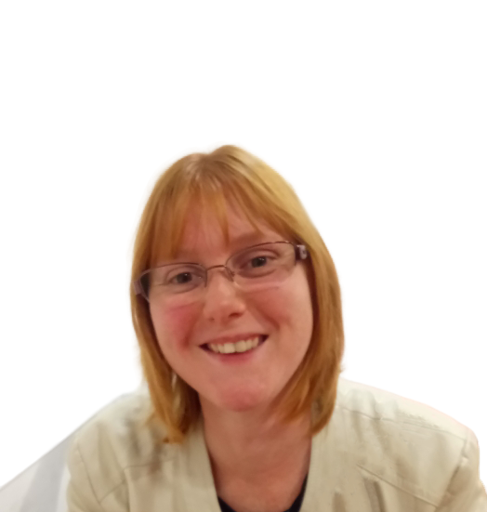
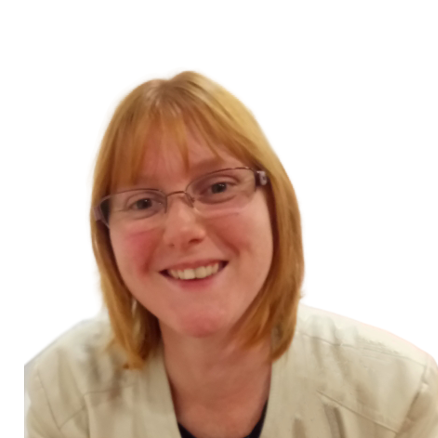
design index

diff --git a/index.html b/index.html
@@ -11,37 +11,39 @@
 </head>
 <body>
 
-        <section id="accueil" class="p-5">
-            <article>
+        <section id="accueil">
+            <article class="py-5 px-10 text-center">
                 <p>Dans le cadre de notre mastère développement web, nous avons réalisé un projet Out Of School. Le but de l'OOS est de devenir, par groupe de 2, acteurs d'une veille que l'on partage via un format et une représentation au choix.</p>
             </article>
-            <article>
+            <article class="py-5 px-10 text-center bg-dark-purple">
                 <p>Nous avons choisi de travailler sur le thème : </p>
                 <h1>Ordre éthique et numérique</h1>
                 <p>Et en particulier sur le sujet :</p>
-                <h2>Comment les professionnels du numérique font pour capter et retenir l'attention des utilisateurs, et comment faire en sorte de mieux contrôler la récupération et le traitement des données à des fins commerciales</h2>
+                <h2>Comment les professionnels du numérique font pour capter et retenir l'attention des utilisateurs, et comment faire en sorte de mieux contrôler la récupération et le traitement des données à des fins commerciales.</h2>
             </article>
-            <article>
+            <article class="pt-5 px-10">
                 <p>Nous allons vous expliquer quelles techniques sont utilisées à votre insu, pour récolter vos données personnelles, et les réutiliser pour vous inciter à consommer du temps ou de l’argent.</p>
                 <p>Nous allons vous proposer des exemples concrets de ce qui peut être utilisé sur les sites : pop-up, notifications, demande d'acceptation des cookies, ...</p>
-                <p>Enfin, nous allons vous proposer des astuces pour protéger au maximum les données, et ne pas tomber dans les pièges</p>
+                <p>Enfin, nous allons vous proposer des astuces pour protéger au maximum les données, et ne pas tomber dans les pièges.</p>
             </article>
 
-            <button onclick="window.location.href='OOS.html'">Accéder au projet</button>
+            <button id="buttonIndex" onclick="window.location.href='OOS.html'">Accéder au projet</button>
+        
         </section>
 
-        <section>
-            <div>
-                <img src="./assets/img/lea.png" alt="photo Léa">
-                <p>Léa SAGNIER élargit son domaine de compétence, initialement le design, au développement web</p>
+        <section class="row px-10 justify-content-between mb-5">
+            <div class="d-flex flex-column align-items-center bg-dark-purple cartTrombi">
+                <img class='trombi' src="./assets/img/lea.png" alt="photo Léa">
+                <p class="textTrombi">Léa Sagnier élargit son domaine de compétence, initialement le graphisme et le web-design, au développement web. Elle a une préference pour le développement dans le domaine du front-end et principâlement en REACT.js.</p>
             </div>
-            <div>
-                <img src="./assets/img/laura.png" alt="photo Laura">
-                <p>Laura QUATANNENS qui poursuit sa reconversion professionnelle en développement web</p>
+            <div class="d-flex flex-column align-items-center bg-dark-purple cartTrombi">
+                <img class='trombi' src="./assets/img/laura.png" alt="photo Laura">
+                <p class="textTrombi">Précédemment dans le domaine des Ressources Humaines, Laura Quatannens est en reconversion professionnelle et souhaite se spécialiser dans le développement back end, notamment dans le framework Symfony.</p>
             </div>
-            <div>
-                <img src="./assets/img/Steven.jpg" alt="photo Steven">
-                <p>Steven Trybucki, notre tuteur, est enseignant certifié en économie-gestion option informatique. Steven enseigne notamment le développement back-end et front-end ainsi que la cybersécurité des services informatiques.</p>
+            <div class="d-flex flex-column align-items-center bg-dark-purple cartTrombi">
+                <img class='trombi' src="./assets/img/Steven.jpg" alt="photo Steven">
+                <p class="textTrombi">Steven Trybucki, notre tuteur, est enseignant certifié en économie-gestion option informatique. 
+                   Steven enseigne notamment le développement back-end et front-end ainsi que la cybersécurité des services informatiques.</p>
             </div>
         </section>
 

diff --git a/assets/css/style.css b/assets/css/style.css
@@ -12,6 +12,7 @@ body {
 	font-family: "Century Gothic", helvetica, arial, sans-serif;
 	font-size: 100%;
 	line-height: 1.5; 
+    overflow-x: hidden ;
 }
 
 .bg-dark-purple{
@@ -24,12 +25,42 @@ body {
     color: var(--dark-purple);
 }
 
+.px-10{
+    padding: 0 10rem;
+}
+
+/*index*/
+.trombi{
+    margin-top:2rem;
+    border-radius: 500px;
+    height: auto;
+    width: 50%;
+    filter: grayscale(1);
+    background-color: var(--break-white);
+}
+.textTrombi{
+    margin-bottom:0;
+    padding: 2rem;
+}
+.cartTrombi{
+    width: 30%;
+    border-radius: 15px;
+}
+#buttonIndex{
+    display: flex;
+    padding: 0.5rem 1.5rem;
+    margin: 2rem auto;
+    border: 0.5px solid var(--dark-purple);
+    border-radius: 50px;
+}
+#buttonIndex:hover{
+    border: 0.5px solid var(--dark-purple);
+    background-color: var(--dark-purple);
+    color: var(--break-white);
+}
+
 #copyright{
     font-size: 0.7rem;
     text-align: center;
     margin-bottom: 0;
-}
-
-.px-10{
-    padding: 0 10rem;
 }
